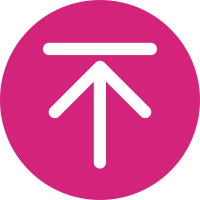
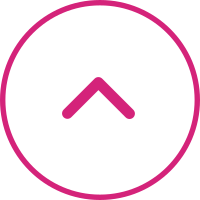
回到顶部组件封装和使用

diff --git a/src/views/home/Home.vue b/src/views/home/Home.vue
@@ -3,13 +3,14 @@
   <nav-bar class="home-nav">
     <div slot="center">首页</div>
   </nav-bar>
-  <scroll class="content">
+  <scroll class="content" ref="scroll">
     <home-swiper :banners="banners" />
     <recommends-view :recommends="recommends" />
     <feature-view />
     <tab-control class="tab-control" :titles="['title1', 'title2', 'title3']" @tabClick="tabClick" />
     <goods-list :goods="showGoodsByTab" />
   </scroll>
+  <back-top @click.native="backTopClick" />
 </div>
 </template>
 
@@ -22,6 +23,7 @@ import NavBar from "components/common/navbar/NavBar.vue";
 import Scroll from "components/common/scroll/Scroll.vue";
 import TabControl from "components/content/tabControl/TabControl.vue";
 import GoodsList from "components/content/goods/GoodsList.vue";
+import BackTop from "components/content/backTop/BackTop.vue";
 
 import { getHomeMultidata, getHomeGoods } from "network/home.js";
 export default {
@@ -33,7 +35,8 @@ export default {
     NavBar,
     Scroll,
     TabControl,
-    GoodsList
+    GoodsList,
+    BackTop
   },
   data() {
     return {
@@ -61,6 +64,10 @@ export default {
     this.loadHomeGoods("title3")
   },
   methods: {
+    // 回到顶部
+    backTopClick() {
+      this.$refs.scroll.scrollTo(0, 0)
+    },
     // tab 切换事件
     tabClick(index) {
       switch (index) {

diff --git a/src/components/common/scroll/Scroll.vue b/src/components/common/scroll/Scroll.vue
@@ -12,15 +12,21 @@ export default {
   name: "Scroll",
   data() {
     return {
-      scroll: null
+      scroll: {}
     }
   },
   mounted() {
     this.scroll = new BScroll(this.$refs.wrapper, {
-
+      // 控制其内的元素是否可以被点击，默认 false
+      click: true
     })
     console.log(this.scroll)
   },
+  methods: {
+    scrollTo(x, y, time = 300) {
+      this.scroll.scrollTo(x, y, time)
+    }
+  }
 }
 </script>
 

diff --git a/src/components/content/backTop/BackTop.vue b/src/components/content/backTop/BackTop.vue
@@ -1,0 +1,23 @@
+<template>
+<div class="back-top">
+  <img src="~assets/img/common/back-top.png">
+</div>
+</template>
+
+<script>
+export default {
+  name: "BackTop"
+}
+</script>
+
+<style scoped>
+.back-top {
+  position: fixed;
+  right: 10px;
+  bottom: 60px;
+}
+
+.back-top img {
+  width: 40px;
+}
+</style>
